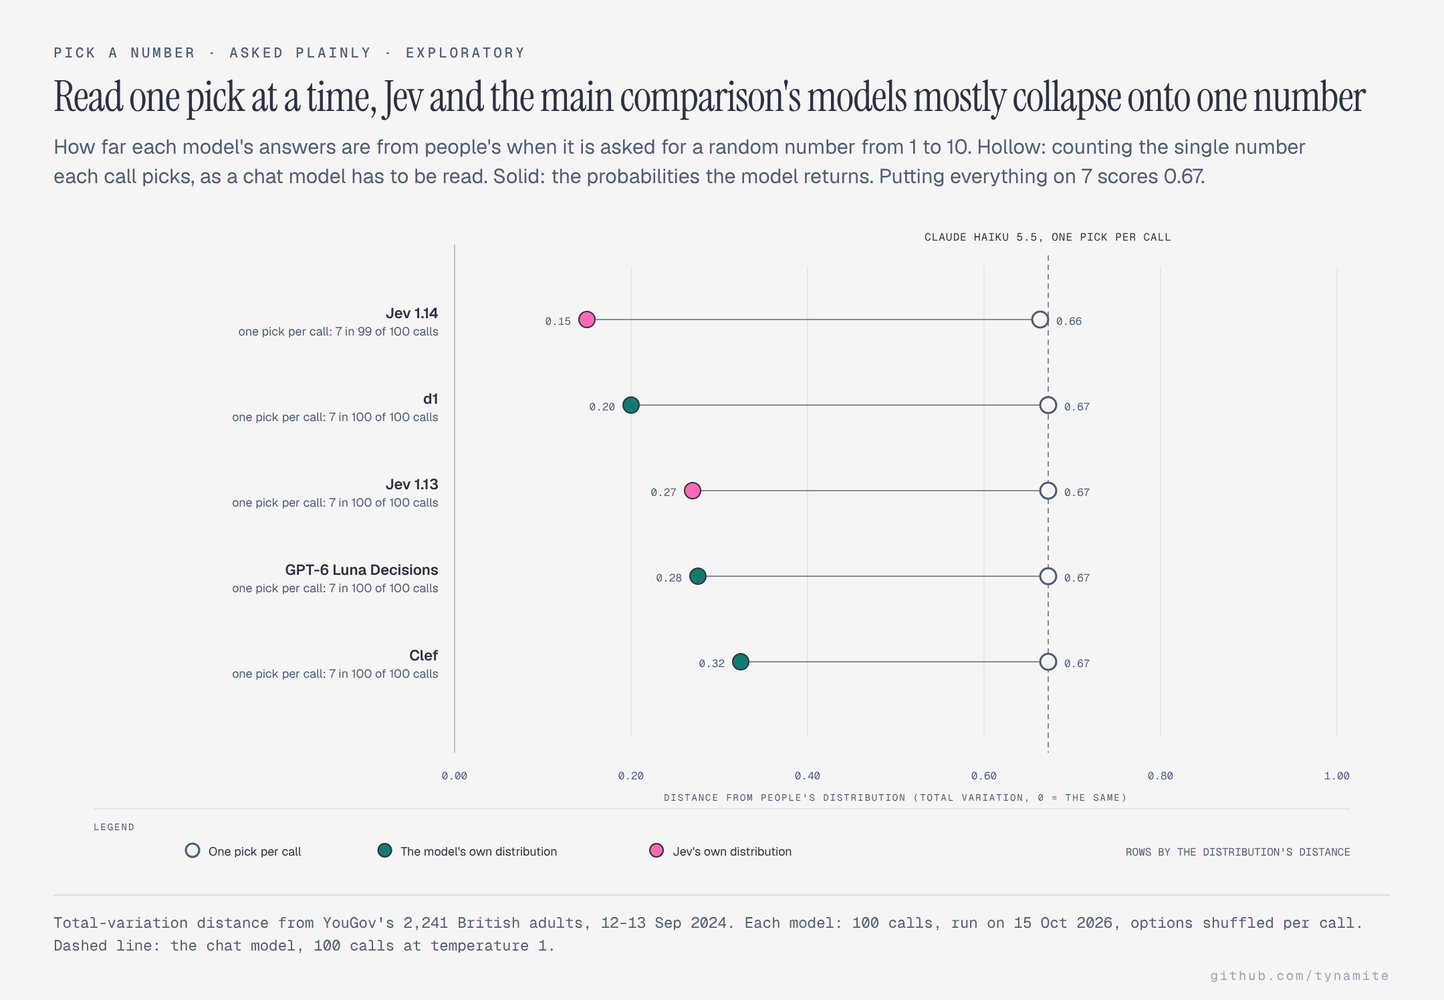
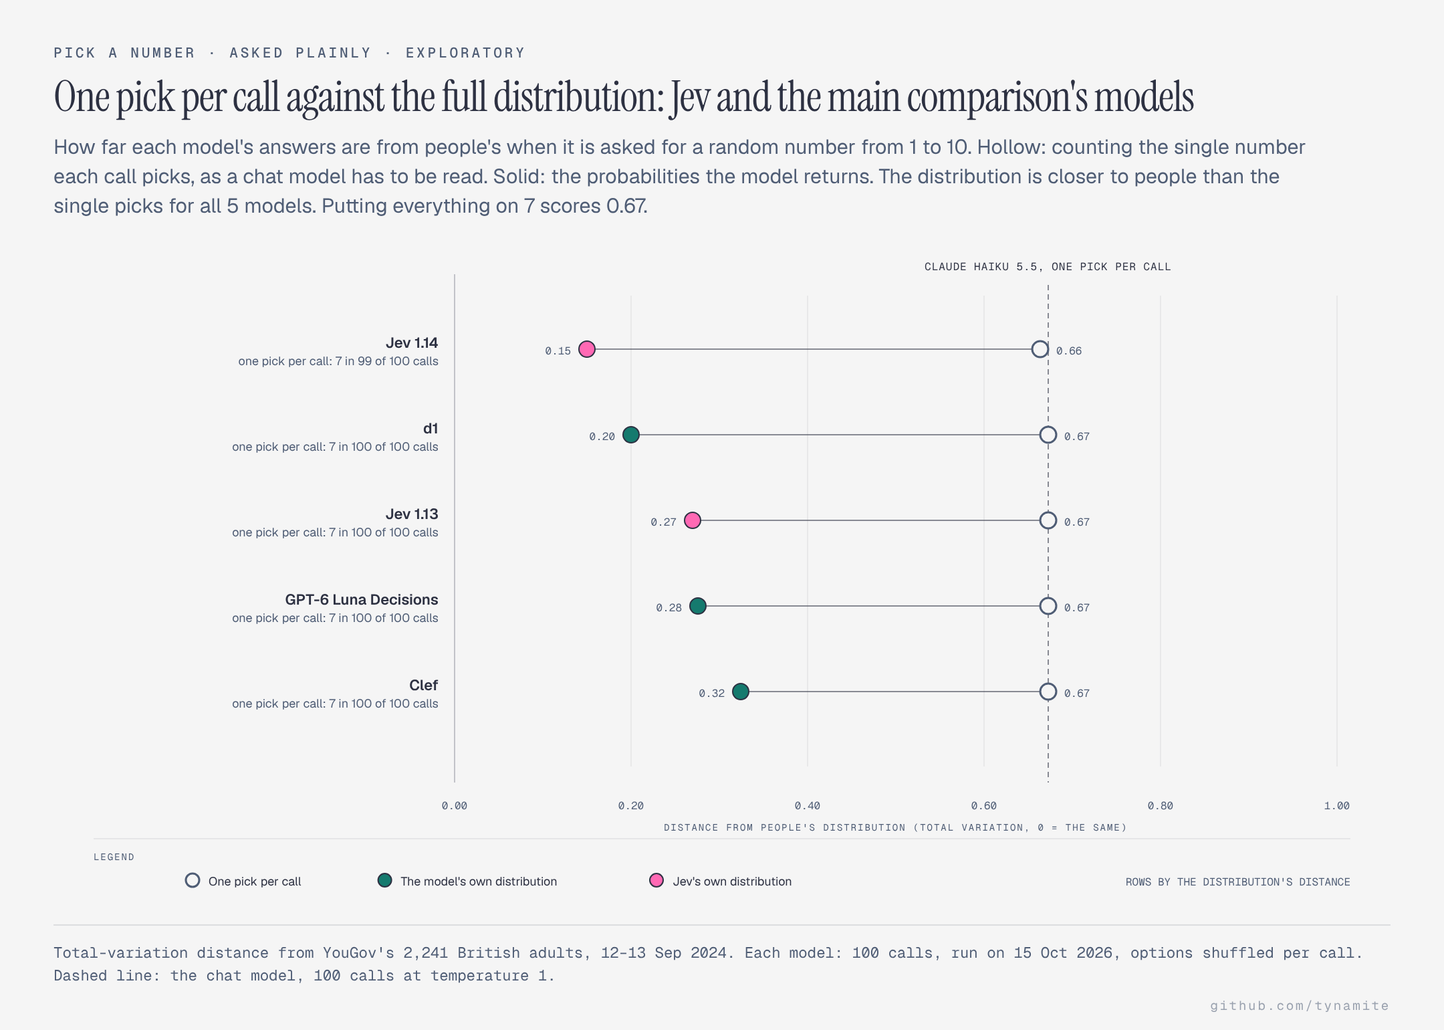
pick-number: figure claims counted from the plotted rows; refuse unknown arms and personas

diff --git a/docs/diagrams/pick-number-reading-a.html b/docs/diagrams/pick-number-reading-a.html
@@ -3,7 +3,7 @@
 <head>
   <meta charset="UTF-8">
   <meta name="viewport" content="width=device-width, initial-scale=1.0">
-  <title>Read one pick at a time, Jev and the main comparison&#x27;s models mostly collapse onto one number</title>
+  <title>One pick per call against the full distribution: Jev and the main comparison&#x27;s models</title>
   <link href="https://fonts.googleapis.com/css2?family=Instrument+Serif:ital@0;1&family=Geist:wght@400;500;600&family=Geist+Mono:wght@400;500;600&display=swap" rel="stylesheet">
   <style>
     *, *::before, *::after { box-sizing: border-box; margin: 0; padding: 0; }
@@ -41,11 +41,11 @@
 <body>
   <div class="frame">
     <p class="eyebrow">Pick a number · asked plainly · exploratory</p>
-    <h1>Read one pick at a time, Jev and the main comparison&#x27;s models mostly collapse onto one number</h1>
-    <p class="subtitle">How far each model&#x27;s answers are from people&#x27;s when it is asked for a random number from 1 to 10. Hollow: counting the single number each call picks, as a chat model has to be read. Solid: the probabilities the model returns. Putting everything on 7 scores 0.67.</p>
+    <h1>One pick per call against the full distribution: Jev and the main comparison&#x27;s models</h1>
+    <p class="subtitle">How far each model&#x27;s answers are from people&#x27;s when it is asked for a random number from 1 to 10. Hollow: counting the single number each call picks, as a chat model has to be read. Solid: the probabilities the model returns. The distribution is closer to people than the single picks for all 5 models. Putting everything on 7 scores 0.67.</p>
     <div class="diagram-container">
       <svg viewBox="0 16 1000 494" xmlns="http://www.w3.org/2000/svg" role="img" aria-labelledby="pick-number-reading-a-title pick-number-reading-a-desc">
-        <title id="pick-number-reading-a-title">Read one pick at a time, Jev and the main comparison&#x27;s models mostly collapse onto one number</title>
+        <title id="pick-number-reading-a-title">One pick per call against the full distribution: Jev and the main comparison&#x27;s models</title>
         <desc id="pick-number-reading-a-desc">Dumbbell chart of Jev 1.13, Jev 1.14, Clef, GPT-6 Luna Decisions and d1: each model&#x27;s distance from people&#x27;s distribution of picks, counted one pick per call and taken from its returned probabilities.</desc>
         <defs>
           <marker id="arrow" markerWidth="8" markerHeight="6" refX="7" refY="3" orient="auto"><polygon points="0 0, 8 3, 0 6" fill="#4f5d75"/></marker>

diff --git a/docs/diagrams/pick-number-reading-b.html b/docs/diagrams/pick-number-reading-b.html
@@ -3,7 +3,7 @@
 <head>
   <meta charset="UTF-8">
   <meta name="viewport" content="width=device-width, initial-scale=1.0">
-  <title>Read one pick at a time, the other System One models mostly collapse onto one number</title>
+  <title>One pick per call against the full distribution: the other System One models</title>
   <link href="https://fonts.googleapis.com/css2?family=Instrument+Serif:ital@0;1&family=Geist:wght@400;500;600&family=Geist+Mono:wght@400;500;600&display=swap" rel="stylesheet">
   <style>
     *, *::before, *::after { box-sizing: border-box; margin: 0; padding: 0; }
@@ -41,11 +41,11 @@
 <body>
   <div class="frame">
     <p class="eyebrow">Pick a number · asked plainly · exploratory</p>
-    <h1>Read one pick at a time, the other System One models mostly collapse onto one number</h1>
-    <p class="subtitle">How far each model&#x27;s answers are from people&#x27;s when it is asked for a random number from 1 to 10. Hollow: counting the single number each call picks, as a chat model has to be read. Solid: the probabilities the model returns. Putting everything on 7 scores 0.67.</p>
+    <h1>One pick per call against the full distribution: the other System One models</h1>
+    <p class="subtitle">How far each model&#x27;s answers are from people&#x27;s when it is asked for a random number from 1 to 10. Hollow: counting the single number each call picks, as a chat model has to be read. Solid: the probabilities the model returns. The distribution is closer to people than the single picks for all 6 models. Putting everything on 7 scores 0.67.</p>
     <div class="diagram-container">
       <svg viewBox="0 16 1000 494" xmlns="http://www.w3.org/2000/svg" role="img" aria-labelledby="pick-number-reading-b-title pick-number-reading-b-desc">
-        <title id="pick-number-reading-b-title">Read one pick at a time, the other System One models mostly collapse onto one number</title>
+        <title id="pick-number-reading-b-title">One pick per call against the full distribution: the other System One models</title>
         <desc id="pick-number-reading-b-desc">Dumbbell chart of Clef Flash, Decider v1.1 27B, Mercury Decide, Microsoft-Decision-1, Solar Decide and Solar Decide Flash: each model&#x27;s distance from people&#x27;s distribution of picks, counted one pick per call and taken from its returned probabilities.</desc>
         <defs>
           <marker id="arrow" markerWidth="8" markerHeight="6" refX="7" refY="3" orient="auto"><polygon points="0 0, 8 3, 0 6" fill="#4f5d75"/></marker>

diff --git a/docs/diagrams/pick-number-prompt-a.html b/docs/diagrams/pick-number-prompt-a.html
@@ -3,7 +3,7 @@
 <head>
   <meta charset="UTF-8">
   <meta name="viewport" content="width=device-width, initial-scale=1.0">
-  <title>Told to answer as a typical person, Jev and the main comparison&#x27;s models mostly overshoot onto 7</title>
+  <title>Share on 7, asked plainly and as a typical person: Jev and the main comparison&#x27;s models</title>
   <link href="https://fonts.googleapis.com/css2?family=Instrument+Serif:ital@0;1&family=Geist:wght@400;500;600&family=Geist+Mono:wght@400;500;600&display=swap" rel="stylesheet">
   <style>
     *, *::before, *::after { box-sizing: border-box; margin: 0; padding: 0; }
@@ -41,11 +41,11 @@
 <body>
   <div class="frame">
     <p class="eyebrow">Pick a number · two prompts · exploratory</p>
-    <h1>Told to answer as a typical person, Jev and the main comparison&#x27;s models mostly overshoot onto 7</h1>
-    <p class="subtitle">The share of each model&#x27;s returned probability on 7, the number a third of people pick. Asked to answer as a typical person, a model that knew people&#x27;s answers would move towards the dashed line; most go past it.</p>
+    <h1>Share on 7, asked plainly and as a typical person: Jev and the main comparison&#x27;s models</h1>
+    <p class="subtitle">The share of each model&#x27;s returned probability on 7, the number 33% of people pick. Asked to answer as a typical person, a model that knew people&#x27;s answers would move towards the dashed line. As a typical person, all 5 models put more on 7 than when asked plainly, and all 5 models put more on 7 than people do.</p>
     <div class="diagram-container">
       <svg viewBox="0 16 1000 494" xmlns="http://www.w3.org/2000/svg" role="img" aria-labelledby="pick-number-prompt-a-title pick-number-prompt-a-desc">
-        <title id="pick-number-prompt-a-title">Told to answer as a typical person, Jev and the main comparison&#x27;s models mostly overshoot onto 7</title>
+        <title id="pick-number-prompt-a-title">Share on 7, asked plainly and as a typical person: Jev and the main comparison&#x27;s models</title>
         <desc id="pick-number-prompt-a-desc">Dumbbell chart of Jev 1.13, Jev 1.14, Clef, GPT-6 Luna Decisions and d1: the share of each model&#x27;s distribution on 7 when asked plainly and when asked to answer as a typical person, against people&#x27;s 33%.</desc>
         <defs>
           <marker id="arrow" markerWidth="8" markerHeight="6" refX="7" refY="3" orient="auto"><polygon points="0 0, 8 3, 0 6" fill="#4f5d75"/></marker>

diff --git a/docs/diagrams/pick-number-prompt-b.html b/docs/diagrams/pick-number-prompt-b.html
@@ -3,7 +3,7 @@
 <head>
   <meta charset="UTF-8">
   <meta name="viewport" content="width=device-width, initial-scale=1.0">
-  <title>Told to answer as a typical person, the other System One models mostly overshoot onto 7</title>
+  <title>Share on 7, asked plainly and as a typical person: the other System One models</title>
   <link href="https://fonts.googleapis.com/css2?family=Instrument+Serif:ital@0;1&family=Geist:wght@400;500;600&family=Geist+Mono:wght@400;500;600&display=swap" rel="stylesheet">
   <style>
     *, *::before, *::after { box-sizing: border-box; margin: 0; padding: 0; }
@@ -41,11 +41,11 @@
 <body>
   <div class="frame">
     <p class="eyebrow">Pick a number · two prompts · exploratory</p>
-    <h1>Told to answer as a typical person, the other System One models mostly overshoot onto 7</h1>
-    <p class="subtitle">The share of each model&#x27;s returned probability on 7, the number a third of people pick. Asked to answer as a typical person, a model that knew people&#x27;s answers would move towards the dashed line; most go past it.</p>
+    <h1>Share on 7, asked plainly and as a typical person: the other System One models</h1>
+    <p class="subtitle">The share of each model&#x27;s returned probability on 7, the number 33% of people pick. Asked to answer as a typical person, a model that knew people&#x27;s answers would move towards the dashed line. As a typical person, 5 of the 6 models put more on 7 than when asked plainly, and 5 of the 6 models put more on 7 than people do.</p>
     <div class="diagram-container">
       <svg viewBox="0 16 1000 494" xmlns="http://www.w3.org/2000/svg" role="img" aria-labelledby="pick-number-prompt-b-title pick-number-prompt-b-desc">
-        <title id="pick-number-prompt-b-title">Told to answer as a typical person, the other System One models mostly overshoot onto 7</title>
+        <title id="pick-number-prompt-b-title">Share on 7, asked plainly and as a typical person: the other System One models</title>
         <desc id="pick-number-prompt-b-desc">Dumbbell chart of Clef Flash, Decider v1.1 27B, Mercury Decide, Microsoft-Decision-1, Solar Decide and Solar Decide Flash: the share of each model&#x27;s distribution on 7 when asked plainly and when asked to answer as a typical person, against people&#x27;s 33%.</desc>
         <defs>
           <marker id="arrow" markerWidth="8" markerHeight="6" refX="7" refY="3" orient="auto"><polygon points="0 0, 8 3, 0 6" fill="#4f5d75"/></marker>

diff --git a/docs/diagrams/pick-number-jev.html b/docs/diagrams/pick-number-jev.html
@@ -42,7 +42,7 @@
   <div class="frame">
     <p class="eyebrow">Pick a number · exploratory</p>
     <h1>Jev 1.13 and Jev 1.14: the distribution Jev returns against its single answer</h1>
-    <p class="subtitle">Asked for a random number from 1 to 10, a third of people say 7. Each Jev call returns a probability for every number (solid) and also picks one (outlined). Counting the single picks, the way a chat model has to be read, puts nearly everything on 7; the distribution is far closer to people. Claude Haiku 5.5, asked 200 times, said 7 every time.</p>
+    <p class="subtitle">Asked for a random number from 1 to 10, 33% of people say 7. Each Jev call returns a probability for every number (solid) and also picks one (outlined); counting the single picks is how a chat model has to be read. The single answers put 99% to 100% of calls on 7. The distribution is the closer of the two to people in all 4 panels. Claude Haiku 5.5, asked 200 times, said 7 every time.</p>
     <div class="diagram-container">
       <svg viewBox="0 12 1000 538" xmlns="http://www.w3.org/2000/svg" role="img" aria-labelledby="pick-number-jev-title pick-number-jev-desc">
         <title id="pick-number-jev-title">Jev 1.13 and Jev 1.14: the distribution Jev returns against its single answer</title>

diff --git a/src/jevbench/diagrams.py b/src/jevbench/diagrams.py
@@ -2852,6 +2852,51 @@ def _pick_jevs(table: pd.DataFrame) -> list[str]:
     )
 
 
+def _pick_people7(table: pd.DataFrame) -> float:
+    return float(table.loc[table["arm"] == "people", "share_7"].iloc[0])
+
+
+def _of(n: int, m: int, noun: str) -> str:
+    """'all 4 panels', 'none of the 4 panels', '3 of the 4 panels'."""
+    if n == m:
+        return f"all {m} {noun}"
+    return f"none of the {m} {noun}" if n == 0 else f"{n} of the {m} {noun}"
+
+
+def _pick_jev_claim(table: pd.DataFrame, jevs: list[str]) -> str:
+    """What the panels show, counted from them rather than assumed."""
+    cells = [(m, p) for m in jevs for p, _l in PICK_PROMPTS]
+    picks7 = [float(_pick_cell(table, m, p, "one pick per call")["7"]) for m, p in cells]
+    closer = sum(
+        float(_pick_cell(table, m, p, "its distribution")["tv_from_people"])
+        < float(_pick_cell(table, m, p, "one pick per call")["tv_from_people"])
+        for m, p in cells
+    )
+    lo, hi = min(picks7), max(picks7)
+    span = f"{lo:.0%}" if f"{lo:.0%}" == f"{hi:.0%}" else f"{lo:.0%} to {hi:.0%}"
+    return (
+        f"The single answers put {span} of calls on 7. The distribution is the closer of the two "
+        f"to people in {_of(closer, len(cells), 'panels')}."
+    )
+
+
+def _pick_reading_claim(rows: list[tuple[str, str, float, float]]) -> str:
+    """rows: (name, sub, one-pick distance, distribution distance)."""
+    n = sum(dist < pick for _n, _s, pick, dist in rows)
+    return f"The distribution is closer to people than the single picks for {_of(n, len(rows), 'models')}."
+
+
+def _pick_prompt_claim(rows: list[tuple[str, str, float, float]], people: float) -> str:
+    """rows: (name, sub, share on 7 plainly, as a typical person)."""
+    up = sum(typ > plain for _n, _s, plain, typ in rows)
+    past = sum(typ > people for _n, _s, _p, typ in rows)
+    m = len(rows)
+    return (
+        f"As a typical person, {_of(up, m, 'models')} put more on 7 than when asked plainly, and "
+        f"{_of(past, m, 'models')} put more on 7 than people do."
+    )
+
+
 def fig_pick_number_jev(
     table: pd.DataFrame, jevs: list[str] | None = None, slug: str = "pick-number-jev"
 ) -> Figure:
@@ -2942,10 +2987,10 @@ def fig_pick_number_jev(
         eyebrow="Pick a number · exploratory",
         title=f"{versions}: the distribution Jev returns against its single answer",
         subtitle=(
-            "Asked for a random number from 1 to 10, a third of people say 7. Each Jev call returns a probability "
-            "for every number (solid) and also picks one (outlined). Counting the single picks, the way a chat "
-            "model has to be read, puts nearly everything on 7; the distribution is far closer to people. "
-            f"{_pick_chat_line(table)}"
+            f"Asked for a random number from 1 to 10, {people[PICK_NUMBERS.index('7')]:.0%} of people say 7. "
+            "Each Jev call returns a probability for every number (solid) and also picks one (outlined); "
+            "counting the single picks is how a chat model has to be read. "
+            f"{_pick_jev_claim(table, jevs)} {_pick_chat_line(table)}"
         ),
         desc=f"Four small bar charts: {versions}, asked plainly and asked to answer as a typical person. For "
         "each number from 1 to 10 they show the share of people who pick it, the probability Jev returns, the "
@@ -3005,11 +3050,12 @@ def fig_pick_number_reading(
     return Figure(
         slug=f"pick-number-reading-{part}",
         eyebrow="Pick a number · asked plainly · exploratory",
-        title=f"Read one pick at a time, {group} mostly collapse onto one number",
+        title=f"One pick per call against the full distribution: {group}",
         subtitle=(
             "How far each model's answers are from people's when it is asked for a random number from 1 to 10. "
             "Hollow: counting the single number each call picks, as a chat model has to be read. Solid: the "
-            "probabilities the model returns. Putting everything on 7 scores 0.67."
+            f"probabilities the model returns. {_pick_reading_claim(rows)} Putting everything on 7 scores "
+            f"{1 - _pick_people7(table):.2f}."
         ),
         desc=f"Dumbbell chart of {_pick_name_list(models)}: each model's distance from people's distribution "
         "of picks, counted one pick per call and taken from its returned probabilities.",
@@ -3056,11 +3102,11 @@ def fig_pick_number_prompt(table: pd.DataFrame, group: str, models: list[str], p
     return Figure(
         slug=f"pick-number-prompt-{part}",
         eyebrow="Pick a number · two prompts · exploratory",
-        title=f"Told to answer as a typical person, {group} mostly overshoot onto 7",
+        title=f"Share on 7, asked plainly and as a typical person: {group}",
         subtitle=(
-            "The share of each model's returned probability on 7, the number a third of people pick. Asked to "
-            "answer as a typical person, a model that knew people's answers would move towards the dashed line; "
-            "most go past it."
+            f"The share of each model's returned probability on 7, the number {people:.0%} of people pick. Asked "
+            "to answer as a typical person, a model that knew people's answers would move towards the dashed "
+            f"line. {_pick_prompt_claim(rows, people)}"
         ),
         desc=f"Dumbbell chart of {_pick_name_list(models)}: the share of each model's distribution on 7 when "
         "asked plainly and when asked to answer as a typical person, against people's 33%.",

diff --git a/tests/test_pick_number.py b/tests/test_pick_number.py
@@ -534,3 +534,54 @@ def test_jev_figure_dates_cover_only_jev() -> None:
     jev = next(f for f in pick_number_figures(table) if f.slug == "pick-number-jev")
     assert "Jev: 100 calls per prompt, run on 15 Oct 2026" in jev.source
     assert "temperature 1, run on 1 Mar 2027" in jev.source
+
+
+def test_resume_refuses_another_persona(tmp_path) -> None:
+    import json
+
+    from jevbench.pick_number import resume_problem
+
+    rec = {"probe_id": "pick_number_1_10", "instrument": "pick_number", "persona": "rational_agent",
+           "arm": "jev", "replicate": 0, "backend": "typesafe", "model": "jev-1.14.0",
+           "kind": "choice", "value": "7", "probabilities": {"7": 1.0}, "error": None}  # fmt: skip
+    path = tmp_path / "run_live_x.jsonl"
+    path.write_text(json.dumps(rec) + "\n")
+    problem = resume_problem(path, arm="jev", model="jev-1.14.0", backend="typesafe")
+    assert problem and "persona rational_agent" in problem
+
+
+def test_analyse_refuses_an_unknown_arm(tmp_path) -> None:
+    import json
+
+    from jevbench.pick_number import analyse
+
+    base = {"probe_id": "pick_number_1_10", "instrument": "pick_number", "backend": "x",
+            "kind": "choice", "value": "7", "probabilities": {"7": 1.0}, "error": None}  # fmt: skip
+    grid = [(p, r) for p in ("neutral", "typical_human") for r in range(2)]
+    runs = {"A": ("jev", "jev-1.13.0"), "B": ("baseline", "anthropic/claude-haiku-5.5"),
+            "C": ("control", "x/other")}  # fmt: skip
+    for name, (arm, model) in runs.items():
+        rows = [{**base, "arm": arm, "model": model, "persona": p, "replicate": r} for p, r in grid]
+        (tmp_path / f"run_live_{name}.jsonl").write_text(
+            "".join(json.dumps(r) + "\n" for r in rows)
+        )
+    with pytest.raises(ValueError, match="not jev or baseline"):
+        analyse(tmp_path, tmp_path / "out")
+
+
+def test_figure_claims_follow_the_data() -> None:
+    from jevbench.diagrams import pick_number_figures
+    from jevbench.pick_number import PICK_RESULTS_DIR
+
+    table = pd.read_csv(PICK_RESULTS_DIR / "distributions.csv", dtype={"persona": str})
+    table["persona"] = table["persona"].fillna("")
+    figs = {f.slug: f for f in pick_number_figures(table)}
+    assert "put 99% to 100% of calls on 7" in figs["pick-number-jev"].subtitle
+    assert "in all 4 panels" in figs["pick-number-jev"].subtitle
+    assert "for all 5 models" in figs["pick-number-reading-a"].subtitle
+    # Make one Jev cell's single picks match people exactly: the claim must change.
+    jev = (table["model"] == "jev-1.13.0") & table["source"].str.endswith("one pick per call")
+    table.loc[jev, "tv_from_people"] = 0.0
+    figs = {f.slug: f for f in pick_number_figures(table)}
+    assert "in none of the 4 panels" not in figs["pick-number-jev"].subtitle
+    assert "in 2 of the 4 panels" in figs["pick-number-jev"].subtitle

diff --git a/scripts/gen_results_doc.py b/scripts/gen_results_doc.py
@@ -333,14 +333,14 @@ def main(argv: list[str]) -> int:
     pick = figures(
         ("pick-number-jev.png", "Jev 1.13 and Jev 1.14: the distribution Jev returns against "
                                 "its single answer, with Claude Haiku 5.5 and people"),
-        ("pick-number-reading-a.png", "Read one pick at a time, Jev and the main comparison's "
-                                      "models mostly collapse onto one number"),
-        ("pick-number-reading-b.png", "Read one pick at a time, the other System One models "
-                                      "mostly collapse onto one number"),
-        ("pick-number-prompt-a.png", "Told to answer as a typical person, Jev and the main "
-                                     "comparison's models mostly overshoot onto 7"),
-        ("pick-number-prompt-b.png", "Told to answer as a typical person, the other System One "
-                                     "models mostly overshoot onto 7"),
+        ("pick-number-reading-a.png", "One pick per call against the full distribution: Jev and "
+                                      "the main comparison's models"),
+        ("pick-number-reading-b.png", "One pick per call against the full distribution: the other "
+                                      "System One models"),
+        ("pick-number-prompt-a.png", "Share on 7, asked plainly and as a typical person: Jev and "
+                                     "the main comparison's models"),
+        ("pick-number-prompt-b.png", "Share on 7, asked plainly and as a typical person: the "
+                                     "other System One models"),
         ("pick-number-models-a.png", "Pick a number between 1 and 10: Jev and the main "
                                      "comparison's models' returned distributions against people"),
         ("pick-number-models-b.png", "Pick a number between 1 and 10: the other System One "

diff --git a/src/jevbench/pick_number.py b/src/jevbench/pick_number.py
@@ -183,6 +183,7 @@ def resume_problem(
         ("arm", arm, lambda v: v == arm),
         ("backend", backend, lambda v: v == backend),
         ("model", model, lambda v: same_model(model, v)),
+        ("persona", ", ".join(PERSONAS), lambda v: v in PERSONAS),
     ]
     if model.split("/")[-1] in JEV_ALIASES:
         served = ", ".join(sorted({str(v) for v in d["model"]}))
@@ -277,6 +278,8 @@ def analyse(root: Path = PICK_DIR, out_dir: Path = PICK_RESULTS_DIR) -> pd.DataF
             raise ValueError(f"{f.name} holds probes {probes}, not only {PROBE.probe_id}")
         if len(arms) != 1 or len(models) != 1:
             raise ValueError(f"{f.name} holds arms {arms} and models {models}, not one of each")
+        if arms[0] not in ("jev", "baseline"):
+            raise ValueError(f"{f.name} holds the arm {arms[0]}, not jev or baseline")
         # One provider per file: the summary does not split by backend, so a
         # file served through two would be pooled into one distribution.
         backends = sorted(set(d["backend"].astype(str))) if "backend" in d.columns else []

diff --git a/README.md b/README.md
@@ -403,13 +403,13 @@ identical and 1 is no overlap. A model that put everything on 7 would score
   on it and favour 1, 3 and 10. Under the typical-person prompt, Solar Decide
   swings to 96% on 7, and Solar Decide Flash to 68% on 5.
 
-![Read one pick at a time, Jev and the main comparison's models mostly collapse onto one number](results/figures/pick-number-reading-a.png)
+![One pick per call against the full distribution: Jev and the main comparison's models](results/figures/pick-number-reading-a.png)
 
-![Read one pick at a time, the other System One models mostly collapse onto one number](results/figures/pick-number-reading-b.png)
+![One pick per call against the full distribution: the other System One models](results/figures/pick-number-reading-b.png)
 
-![Told to answer as a typical person, Jev and the main comparison's models mostly overshoot onto 7](results/figures/pick-number-prompt-a.png)
+![Share on 7, asked plainly and as a typical person: Jev and the main comparison's models](results/figures/pick-number-prompt-a.png)
 
-![Told to answer as a typical person, the other System One models mostly overshoot onto 7](results/figures/pick-number-prompt-b.png)
+![Share on 7, asked plainly and as a typical person: the other System One models](results/figures/pick-number-prompt-b.png)
 
 ![Pick a number between 1 and 10: Jev and the main comparison's models' returned distributions against people](results/figures/pick-number-models-a.png)
 
